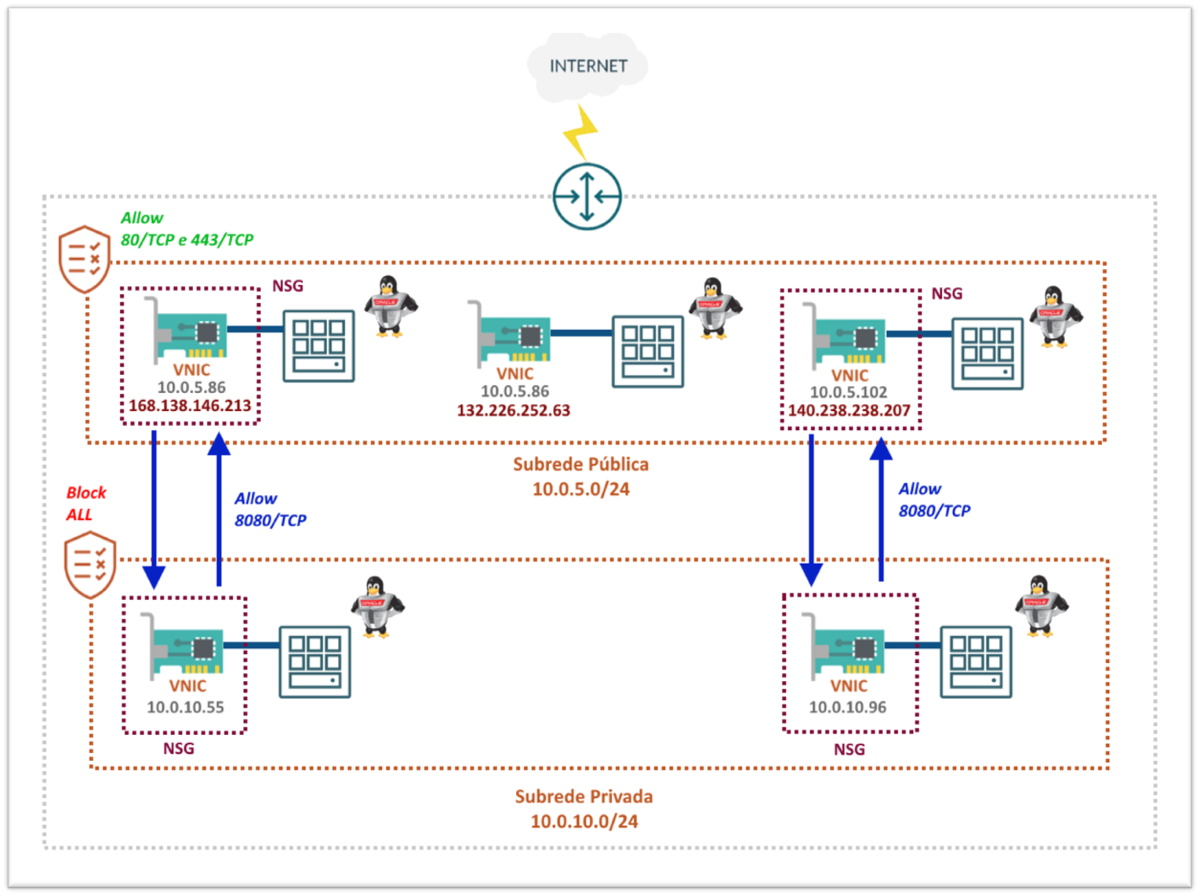
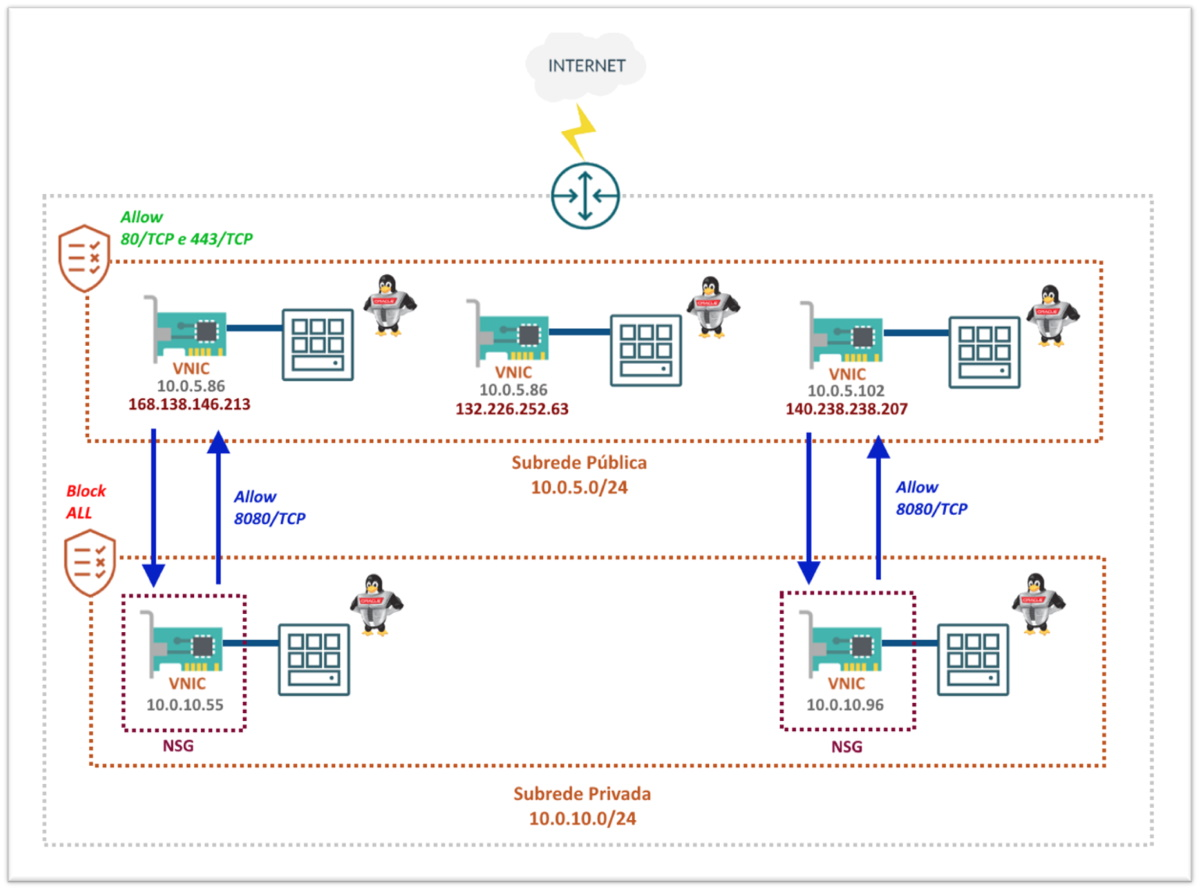
Writing about Oracle Linux and Wordpress.

diff --git a/chapter-4/4-4_oracle-linux-wordpress.md b/chapter-4/4-4_oracle-linux-wordpress.md
@@ -145,3 +145,5 @@ Já o _[Network Security Groups (NSG)](https://docs.oracle.com/pt-br/iaas/Conten
 Vamos desmistificar a aplicabilidade através do cenário abaixo:
 
 ![alt_text](./images/ch4-4_oci-firewalls-2.jpg "OCI Firewalls")
+
+Cenário tipico em cloud. Duas subredes, uma pública e outra privada. Na subrede pública temos um conjunto de instâncias web equipadas com _[Nginx](https://pt.wikipedia.org/wiki/Nginx)_. Nesta subrede, estamos permitindo (allow) tráfego de qualquer origem vindo da internet, para as instâncias nas portas 80/TCP e 443/TCP. 
